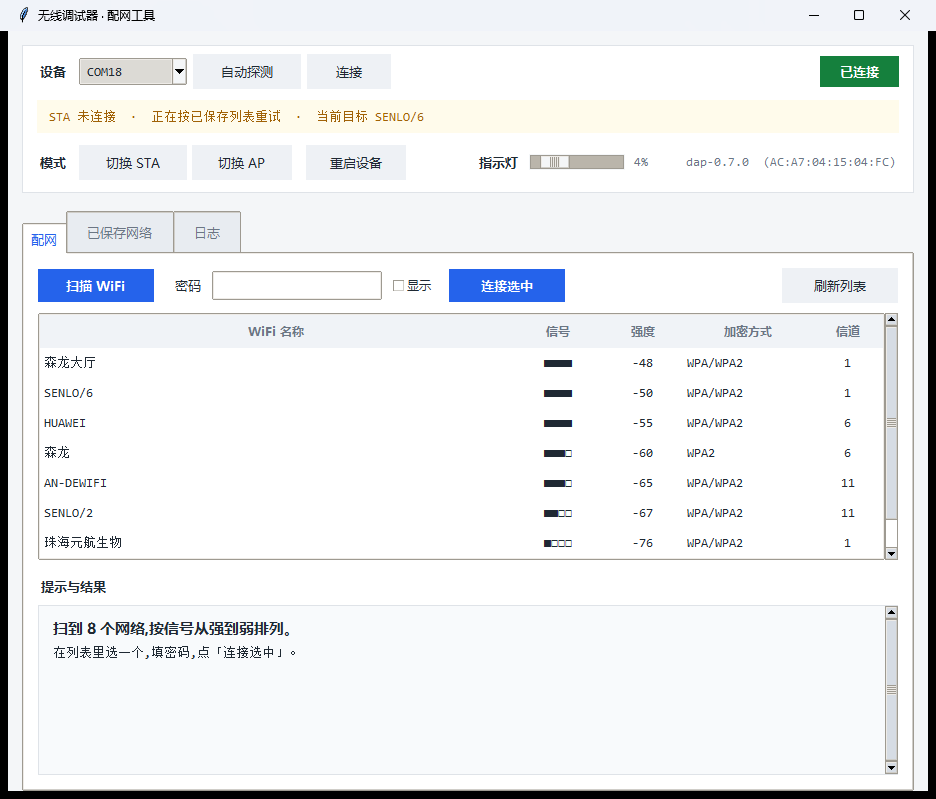
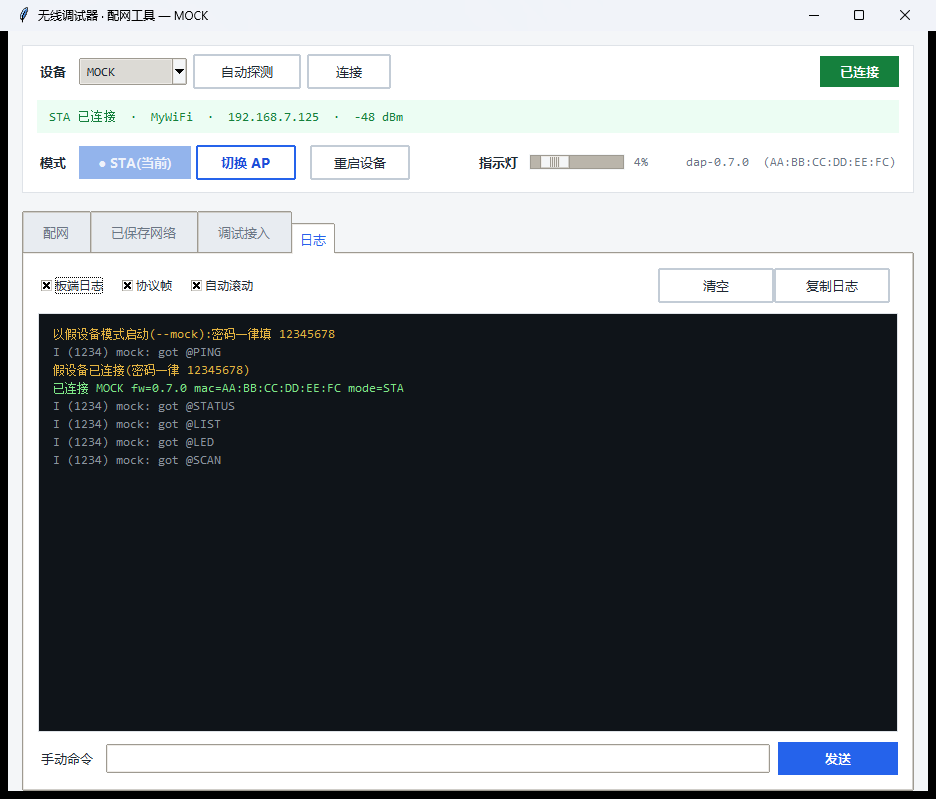
privacy: 个人环境信息脱敏
推送 GitHub 前的统一脱敏(真实值只保留在本机):
- SSID:SENLO/2、SENLO/6 及邻居网络 → MyWiFi/RouterB 等通用示例名
- 路由器型号/MAC(TP-LINK XDR3010 等)→ 路由器A/B + 假 MAC
- 板子出厂 MAC → AA:BB:CC:DD:EE:FC
- 内网 IP 192.168.0.x/1.x → 192.168.7.x(语义不变,拓扑不可复现)
- PC 硬件指纹(Intel 9560)、本机用户名路径 → 通用写法
- 两张露出真实扫描列表的截图 → 用 mock 模式重拍替换

替换后 112 项自检全过(mock 数据与文档示例同源,非行为代码)。

diff --git a/tools/dap_config.py b/tools/dap_config.py
@@ -355,16 +355,16 @@ class SerialTransport(Transport):
 # 假设备:没有板子也能把界面完整点一遍(--mock / --selftest)
 # ---------------------------------------------------------------------- #
 
-MOCK_FACTORY_NETS = [("SENLO/2", "12345678"), ("DAP", "12345678"), ("OTA", "12345678")]
+MOCK_FACTORY_NETS = [("MyWiFi", "12345678"), ("DAP", "12345678"), ("OTA", "12345678")]
 
 # 前 4 项覆盖:普通 SSID、无密码、空格+中文、长名。密码统一 12345678。
 MOCK_SCAN = [
-    ("SENLO/2", -48, "WPA/WPA2", 6, "12345678"),
+    ("MyWiFi", -48, "WPA/WPA2", 6, "12345678"),
     ("DAP", -61, "WPA2", 1, "12345678"),
     ("\u5c0f\u7f8e\u7684 WiFi", -70, "WPA/WPA2", 3, "12345678"),
     ("HUAWEI-5G", -76, "WPA2", 11, "12345678"),
-    ("TP-LINK_8888", -83, "WPA2", 9, "12345678"),
-    ("CMCC-Free", -88, "OPEN", 6, ""),
+    ("RouterB", -83, "WPA2", 9, "12345678"),
+    ("PublicWiFi", -88, "OPEN", 6, ""),
 ]
 
 
@@ -380,8 +380,8 @@ class MockTransport(Transport):
     def __init__(self, connect_delay: float = 1.0):
         self._open = False
         self._mode = "STA"
-        self._ip = "192.168.0.125"
-        self._ssid = "SENLO/2"
+        self._ip = "192.168.7.125"
+        self._ssid = "MyWiFi"
         self._rssi = -48
         self._ch = 6
         self._saved = [[s, p, 0] for (s, p) in MOCK_FACTORY_NETS]
@@ -437,10 +437,10 @@ class MockTransport(Transport):
         self._emit("I (1234) mock: got @%s" % cmd, 0.0)
 
         if cmd == "PING":
-            self._emit("@OK pong fw=0.7.0 mac=AC:A7:04:15:04:FC mode=%s" % self._mode, 0.02)
+            self._emit("@OK pong fw=0.7.0 mac=AA:BB:CC:DD:EE:FC mode=%s" % self._mode, 0.02)
         elif cmd == "STATUS":
             if self._mode == "AP":
-                self._emit("@OK mode=AP ip=%s ssid=DAP-04FC" % AP_DEFAULT_IP, 0.02)
+                self._emit("@OK mode=AP ip=%s ssid=DAP-EEFC" % AP_DEFAULT_IP, 0.02)
             else:
                 self._emit("@OK mode=STA ssid=%s ip=%s rssi=%d ch=%d"
                            % (self._ssid, self._ip, self._rssi, self._ch), 0.02)
@@ -521,7 +521,7 @@ class MockTransport(Transport):
                 self._emit("@ERR 400 mode_must_be_STA_or_AP", 0.02)
             elif want == "AP":
                 self._mode = "AP"
-                self._emit("@OK mode=AP ip=%s ssid=DAP-04FC" % AP_DEFAULT_IP, 0.2)
+                self._emit("@OK mode=AP ip=%s ssid=DAP-EEFC" % AP_DEFAULT_IP, 0.2)
             else:
                 self._mode = "STA"
                 self._emit("@OK mode=STA", 0.2)
@@ -994,7 +994,7 @@ def run_selftest() -> int:
 
     # --- 1. 编码 -----------------------------------------------------
     print("\n[1] SSID/密码编码")
-    for raw in ["SENLO/2", "小美的 WiFi", "a&b=c", "p+ss", "100%", "plain"]:
+    for raw in ["MyWiFi", "小美的 WiFi", "a&b=c", "p+ss", "100%", "plain"]:
         expect_eq("enc/dec 往返 %r" % raw, dec(enc(raw)), raw)
     expect_eq("空格编成 %20", enc("a b"), "a%20b")
     expect_eq("加号不被当成空格", enc("a+b"), "a%2Bb")
@@ -1003,30 +1003,30 @@ def run_selftest() -> int:
 
     # --- 2. 帧解析 ---------------------------------------------------
     print("\n[2] 响应帧解析")
-    n = parse_scan_data("idx=3&ssid=SENLO/2&rssi=-52&auth=WPA/WPA2&ch=6")
-    check("扫描帧", n is not None and n.ssid == "SENLO/2" and n.rssi == -52
+    n = parse_scan_data("idx=3&ssid=MyWiFi&rssi=-52&auth=WPA/WPA2&ch=6")
+    check("扫描帧", n is not None and n.ssid == "MyWiFi" and n.rssi == -52
           and n.auth == "WPA/WPA2" and n.channel == 6, repr(n))
     n2 = parse_scan_data("idx=0&ssid=小美的 WiFi&rssi=-70&auth=WPA2&ch=3")
     check("扫描帧含空格+中文", n2 is not None and n2.ssid == "小美的 WiFi", repr(n2))
     n3 = parse_scan_data("idx=0&ssid=a&b=c&rssi=-60&auth=OPEN&ch=1")
     check("扫描帧含 &", n3 is not None and n3.ssid == "a&b=c", repr(n3))
 
-    st = parse_status("mode=STA ssid=SENLO/2 ip=192.168.0.125 rssi=-72 ch=11")
-    check("STA 状态", st is not None and st.mode == "STA" and st.ip == "192.168.0.125"
+    st = parse_status("mode=STA ssid=MyWiFi ip=192.168.7.125 rssi=-72 ch=11")
+    check("STA 状态", st is not None and st.mode == "STA" and st.ip == "192.168.7.125"
           and st.rssi == -72 and st.channel == 11, repr(st))
     st2 = parse_status("mode=STA ssid=小美的 WiFi ip=192.168.0.9 rssi=-60 ch=6")
     check("STA 状态含空格 SSID", st2 is not None and st2.ssid == "小美的 WiFi", repr(st2))
-    st3 = parse_status("mode=AP ip=192.168.4.1 ssid=DAP-04FC")
+    st3 = parse_status("mode=AP ip=192.168.4.1 ssid=DAP-EEFC")
     check("AP 状态", st3 is not None and st3.mode == "AP"
-          and st3.ip == "192.168.4.1" and st3.ssid == "DAP-04FC", repr(st3))
+          and st3.ip == "192.168.4.1" and st3.ssid == "DAP-EEFC", repr(st3))
 
-    p = parse_ping("pong fw=0.7.0 mac=AC:A7:04:15:04:FC mode=STA")
+    p = parse_ping("pong fw=0.7.0 mac=AA:BB:CC:DD:EE:FC mode=STA")
     check("PING 帧", p is not None and p.fw == "0.7.0"
-          and p.mac == "AC:A7:04:15:04:FC" and p.mode == "STA", repr(p))
+          and p.mac == "AA:BB:CC:DD:EE:FC" and p.mode == "STA", repr(p))
 
-    ck = RE_CONNECT_OK.match("connected ssid=SENLO/2 ip=192.168.0.125")
-    check("CONNECT 成功帧", ck is not None and ck.group(1) == "SENLO/2"
-          and ck.group(2) == "192.168.0.125")
+    ck = RE_CONNECT_OK.match("connected ssid=MyWiFi ip=192.168.7.125")
+    check("CONNECT 成功帧", ck is not None and ck.group(1) == "MyWiFi"
+          and ck.group(2) == "192.168.7.125")
     ck2 = RE_CONNECT_OK.match("connected ssid=小美的 WiFi ip=192.168.0.9")
     check("CONNECT 成功帧含空格", ck2 is not None and ck2.group(1) == "小美的 WiFi", repr(ck2))
 
@@ -1037,8 +1037,8 @@ def run_selftest() -> int:
     check("ERR 帧带空格说明", em2 is not None and int(em2.group(1)) == 400
           and em2.group(2) == "usage: @MODE STA|AP", repr(em2))
 
-    li = parse_list_data("idx=0&ssid=SENLO/2&pass=***&pin=0")
-    check("LIST 帧(无 pin)", li == (0, "SENLO/2", "***", 0), repr(li))
+    li = parse_list_data("idx=0&ssid=MyWiFi&pass=***&pin=0")
+    check("LIST 帧(无 pin)", li == (0, "MyWiFi", "***", 0), repr(li))
     li2 = parse_list_data("idx=1&ssid=小美的 WiFi&pass=***&pin=1")
     check("LIST 帧(pin=1)", li2 == (1, "小美的 WiFi", "***", 1), repr(li2))
     li3 = parse_list_data("idx=2&ssid=DAP&pass=***")
@@ -1079,13 +1079,13 @@ def run_selftest() -> int:
         r = client.connect("不存在的网络", "x")
         check("未知 SSID -> 201", (not r.ok) and r.code == 201, "%s %s" % (r.code, r.text))
 
-        r = client.connect("SENLO/2", "wrong-password")
+        r = client.connect("MyWiFi", "wrong-password")
         check("错密码 -> 15", (not r.ok) and r.code == 15, "%s %s" % (r.code, r.text))
 
         r = client.connect("小美的 WiFi", "12345678")
         check("带空格中文 SSID 能连上", r.ok, "%s %s" % (r.code, r.text))
         m = RE_CONNECT_OK.match(r.text)
-        check("成功帧含 IP", m is not None and m.group(2) == "192.168.0.125", r.text)
+        check("成功帧含 IP", m is not None and m.group(2) == "192.168.7.125", r.text)
 
         rows, source = client.list_saved()
         check("连上后自动入列表", any(row[1] == "小美的 WiFi" for row in rows), rows)

diff --git a/tools/dap_backends.py b/tools/dap_backends.py
@@ -305,14 +305,14 @@ class UsbipBackend:
 
         为什么必须在挂载前查:usbip attach 连不上时会长时间卡住然后报一个
         很难懂的错,用户完全不知道原因。最常见的原因是 PC 和 DAP 板不在同一
-        网段(DAP 连着 192.168.1.x,PC 在 192.168.0.x)—— 这种错误必须在
+        网段(DAP 连着 192.168.1.x,PC 在 192.168.7.x)—— 这种错误必须在
         这里拦下来并说清楚,而不是让 usbip 自己超时。
 
         用 TCP 而不是 ping:Windows 防火墙默认拦 ICMP,ping 不通不代表端口
         不通;而 3240 才是真正要用的端口。
 
-        mDNS 的坑:解析出来的可能是**过期缓存**。实测板子从 192.168.0.125
-        漂到 192.168.1.105 后,dap.local 仍返回 .125 而那个地址已经没人应答。
+        mDNS 的坑:解析出来的可能是**过期缓存**。实测板子从 192.168.7.125
+        漂到 192.168.7.105 后,dap.local 仍返回 .125 而那个地址已经没人应答。
         所以成功时把实际测通的 IP 报出来 —— 用户看到 IP 和预期不符就知道
         是缓存问题,而不是以为"网络坏了"。
         """
@@ -347,7 +347,7 @@ class UsbipBackend:
             "%s(%s)上的端口都连不上(3240/1234)。\n\n"
             "两个最常见的原因:\n"
             "  ① 设备换了网络,但 mDNS 还缓存着旧地址\n"
-            "     —— 实测板子从 192.168.0.x 漂到 192.168.1.x 后,dap.local\n"
+            "     —— 实测板子从 192.168.7.x 漂到 192.168.1.x 后,dap.local\n"
             "        仍返回旧 IP,而那个地址已经没人应答\n"
             "  ② PC 和设备不在同一网段,或路由器开了客户端隔离\n\n"
             "排查:\n"

diff --git a/00_preparation/路由器迁移方案.md b/00_preparation/路由器迁移方案.md
@@ -1,16 +1,16 @@
 # 路由器迁移方案(D 计划,2026-10-26)
 
-> **✅ 终局达成(2026-10-26 晚)**:用户进到 TP-LINK **TL-XDR3010**(=192.168.0.1 有线网关本尊)的管理页,实锤 **AP 隔离=关**、Wi-Fi 多频合一开(2.4G/5G 同名 `SENLO/2` 同密;密码不入仓库,本地凭据文件/密码管理器里)。固件改 SSID 列表 SENLO/2 置顶,重编(COM18 烧录,**读回 md5=40c3ea59 与磁盘一致**——判固件真落地必读回比对,esptool 的 "Hash of data verified" 只证写入瞬间)。首次冷启动 201(NO_AP_FOUND)系时序假象,硬复位后一击连上:**DAP=192.168.0.125**,PC(有线 .111)↔DAP ping 通(均值 13ms),TCP 3240 OPEN,usbip 重挂 + ocdup identify(AT32F403AXG) 全链路恢复。**路由器已做 IP-MAC 绑定**(espressif/AC-A7-04-15-04-FC→.125),复位验证重连仍 .125。热点退役(DAP/OTA 回落保留)。
-> **HUAWEI 线彻底废弃**(隔离无管理权);AN-DEWIFI 判定为 PC 里保存的别处网络,本地不存在。
+> **✅ 终局达成(2026-10-26 晚)**:用户进到 路由器B **路由器A(型号略)**(=192.168.7.1 有线网关本尊)的管理页,实锤 **AP 隔离=关**、Wi-Fi 多频合一开(2.4G/5G 同名 `MyWiFi` 同密;密码不入仓库,本地凭据文件/密码管理器里)。固件改 SSID 列表 MyWiFi 置顶,重编(COM18 烧录,**读回 md5=40c3ea59 与磁盘一致**——判固件真落地必读回比对,esptool 的 "Hash of data verified" 只证写入瞬间)。首次冷启动 201(NO_AP_FOUND)系时序假象,硬复位后一击连上:**DAP=192.168.7.125**,PC(有线 .111)↔DAP ping 通(均值 13ms),TCP 3240 OPEN,usbip 重挂 + ocdup identify(AT32F403AXG) 全链路恢复。**路由器已做 IP-MAC 绑定**(espressif/AA-BB-CC-DD-EE-FC→.125),复位验证重连仍 .125。热点退役(DAP/OTA 回落保留)。
+> **HUAWEI 线彻底废弃**(隔离无管理权);OldHotspot 判定为 PC 里保存的别处网络,本地不存在。
 
 ## ⚠ 2026-10-27 拓扑变化(重要,影响所有网络操作)
 
-家里两台路由是**两台独立设备**(2026-10-26 曾误判同一台):**TL-XDR3010**(SENLO/2,LAN MAC 9c:47:82:58:63:54)与 **TP-LINK_BF5A**(2.4G MAC d0:c7:c0:86:bf:5a)。27 日晨拓扑变动:**0.1 网关角色换到 BF5A**,出网路径 0.1→192.168.1.1 级联;XDR3010 疑似降级 AP,自拿 **192.168.0.110**(80 端口在)。**后果:PC 有线(挂在 0.1/BF5A 域)与 DAP(XDR3010 的 WiFi 客户端)跨域,80-90% 丢包。解法已验证:PC 的 WLAN 直连 SENLO/2(WiFi+网线可并存,上网仍走有线),与 DAP 同 AP 域后全通。**
-当前稳定工作路径:**PC WLAN(192.168.0.127)↔ DAP(192.168.0.125)同 AP 直达**;路由器 IP-MAC 绑定(在 XDR3010 上做的)仍然有效,DAP 重启仍拿 .125。以后若再次拓扑变动,先 `arp -a` 看 0.1 的 MAC 是 9c47 还是 d0c7 判断谁在做网关,PC 侧用 `netsh wlan connect name="SENLO/2"` 切同域即可。
+家里两台路由是**两台独立设备**(2026-10-26 曾误判同一台):**路由器A(型号略)**(MyWiFi,LAN MAC 0a:1b:2c:3d:4e:50)与 **RouterB**(2.4G MAC 0a:1b:2c:3d:4e:5f)。27 日晨拓扑变动:**0.1 网关角色换到 RouterB**,出网路径 0.1→192.168.7.1 级联;路由器A 疑似降级 AP,自拿 **192.168.7.110**(80 端口在)。**后果:PC 有线(挂在 0.1/RouterB 域)与 DAP(路由器A 的 WiFi 客户端)跨域,80-90% 丢包。解法已验证:PC 的 WLAN 直连 MyWiFi(WiFi+网线可并存,上网仍走有线),与 DAP 同 AP 域后全通。**
+当前稳定工作路径:**PC WLAN(192.168.7.127)↔ DAP(192.168.7.125)同 AP 直达**;路由器 IP-MAC 绑定(在 路由器A 上做的)仍然有效,DAP 重启仍拿 .125。以后若再次拓扑变动,先 `arp -a` 看 0.1 的 MAC 是 0a1b 还是 0a1b 判断谁在做网关,PC 侧用 `netsh wlan connect name="MyWiFi"` 切同域即可。
 
-- **网络**:DAP STA 连 `SENLO/2` 2.4G BSSID,地址固定 **192.168.0.125**(DHCP 绑定);PC 有线 192.168.0.111 同网直连,无热点依赖
-- **固件**:`firmware\esp32s3_v0.4.0_custom\`,SSID 列表 = **SENLO/2 → DAP → OTA**(后两个是外出/回落用,密码 12345678)
-- **PC 侧**:`attach_dap_hidden.vbs 192.168.0.125`(以后 IP 不变,可考虑把脚本默认值改成 .125);ocdup 零配置
+- **网络**:DAP STA 连 `MyWiFi` 2.4G BSSID,地址固定 **192.168.7.125**(DHCP 绑定);PC 有线 192.168.7.111 同网直连,无热点依赖
+- **固件**:`firmware\esp32s3_v0.4.0_custom\`,SSID 列表 = **MyWiFi → DAP → OTA**(后两个是外出/回落用,密码 12345678)
+- **PC 侧**:`attach_dap_hidden.vbs 192.168.7.125`(以后 IP 不变,可考虑把脚本默认值改成 .125);ocdup 零配置
 - **日志口分工**:COM18=USB-Serial-JTAG(esptool 烧录/复位用),COM19=CH343(应用日志 115200);USB 重枚举后可能对调,认设备名不认号
 - 已知特性:**首次上电若路由器 2.4G 响应慢会 201 一次后回落热点**,此时点 RST 即连上家网;若嫌烦可日后换 static IP 编译彻底规避
 
@@ -18,9 +18,9 @@
 
 | 事实 | 证据 |
 | --- | --- |
-| TL-XDR3010 = 192.168.0.1 本尊:有线网关 MAC 9c-47-82-58-63-**54**,5G BSSID …**56**,同主板 | ARP + netsh 扫描 |
+| 路由器A(型号略) = 192.168.7.1 本尊:有线网关 MAC 0a-1b-2c-58-63-**54**,5G BSSID …**56**,同主板 | ARP + netsh 扫描 |
 | **AP 隔离=关**(管理页实锤),多频合一开,S3 连的是 2.4G 侧同名 BSSID | 路由器设置页 + DAP 拿 0.x 地址 |
-| AN-DEWIFI 本地不存在(PC 保存的别处网络);HUAWEI=独立 1.x 路由开客户端隔离 | 早前串口日志 201/1.115 互不可达 |
+| OldHotspot 本地不存在(PC 保存的别处网络);HUAWEI=独立 1.x 路由开客户端隔离 | 早前串口日志 201/1.115 互不可达 |
 | 固件 SSID 列表回落机制可靠;**"连得上但不通"的网会让回落失效** | HUAWEI 教训,列表维护原则 |
 | 热点时代 DHCP 漂移 .253→.187→.33→.231 | 已被路由器绑定终结 |
 

diff --git a/00_preparation/无线DAP知识固化计划.md b/00_preparation/无线DAP知识固化计划.md
@@ -7,7 +7,7 @@
 
 | 对象 | 动作 |
 | --- | --- |
-| 用户级 skill `wireless-dap` | **新建**,双写 `C:\Users\46166\.zcode\skills\` 与 `C:\Users\46166\.agents\skills\`(内容一致) |
+| 用户级 skill `wireless-dap` | **新建**,双写 `C:\Users\<user>\.zcode\skills\` 与 `C:\Users\<user>\.agents\skills\`(内容一致) |
 | 《usbip-ocdup联动计划.md》 | **两处小修**(见 §3) |
 | ocdup MCP 本体 | **零改动** |
 | ocdup-zcode 插件 | **零改动**(无代码变更,不涉及版本号/重启) |
@@ -27,8 +27,8 @@ description: 无线 DAP(ESP固件+usbip桥接)的掉线诊断与重挂。当 Ope
 
 ## 0. 拓扑与铁律(先读)
 
-- 链路:PC ⇄ WiFi ⇄ 路由器(SENLO/2 AP 域,192.168.0.x) ⇄ 无线 DAP(192.168.0.125,
-  MAC ac:a7:04:15:04:fc,DHCP 已静态绑定) ⇄ SWD ⇄ 目标板
+- 链路:PC ⇄ WiFi ⇄ 路由器(MyWiFi AP 域,192.168.7.x) ⇄ 无线 DAP(192.168.7.125,
+  MAC aa:bb:cc:dd:ee:fc,DHCP 已静态绑定) ⇄ SWD ⇄ 目标板
 - **Windows 设备树里的 CMSIS-DAP 是 usbip 虚拟的**——PC 与 DAP 之间没有 USB 线,
   任何"重插 USB 线"建议都是架构误判
 - **铁律 1:永远不要 `usbip list -r`**——windowsair 固件不实现 DEVLIST,该命令永久挂起
@@ -40,9 +40,9 @@ description: 无线 DAP(ESP固件+usbip桥接)的掉线诊断与重挂。当 Ope
 
 ## 1. 掉线诊断树(OpenOCD 找不到 CMSIS-DAP 时,按序三条只读检查定案)
 
-1. `ping 192.168.0.125` —— 不通 = 网络层问题:查 PC 是否连在 SENLO/2 的 AP 域(§4),
+1. `ping 192.168.7.125` —— 不通 = 网络层问题:查 PC 是否连在 MyWiFi 的 AP 域(§4),
    `arp -a | findstr "ac-a7-04"` 找 IP 是否漂移
-2. `powershell Test-NetConnection 192.168.0.125 -Port 3240` ——
+2. `powershell Test-NetConnection 192.168.7.125 -Port 3240` ——
    - **OPEN** = 固件 usbip 服务活着,掉的是 PC 侧 attach 进程 → 直接 §2 重挂(无需动 DAP)
    - **不通/挂起** = 固件 usbip 服务卡死(大概率有人跑过 list -r)→ 先给 DAP 断电重启,再 §2 重挂
 3. `powershell Get-PnpDevice | Where-Object FriendlyName -match 'CMSIS-DAP'` ——
@@ -53,7 +53,7 @@ description: 无线 DAP(ESP固件+usbip桥接)的掉线诊断与重挂。当 Ope
 ## 2. 重挂 / 拆桥
 
 - 挂:双击 `D:\ARMGCCTool\WirelessDebuggingtool\usbip-win\attach_dap_hidden.vbs`
-  (UAC 点"是",无黑窗;默认 IP 192.168.0.125,IP 变了可传参)。日志:同目录 attach_hidden_log.txt
+  (UAC 点"是",无黑窗;默认 IP 192.168.7.125,IP 变了可传参)。日志:同目录 attach_hidden_log.txt
 - 验证:设备树出现 "Wireless ESP CMSIS-DAP"(USBDevice 类)→ ocdup connect 即可
 - 拆:同目录 detach_dap.bat(管理员)
 - 保守规则:拆桥只走 detach_dap.bat,**不要 taskkill usbip 进程**(杀提权 usbip 进程会连坐桥接会话)
@@ -71,7 +71,7 @@ description: 无线 DAP(ESP固件+usbip桥接)的掉线诊断与重挂。当 Ope
 
 ## 4. 双路由拓扑陷阱
 
-PC 必须连 SENLO/2 的 AP 域(192.168.0.x)才能到达 DAP。
+PC 必须连 MyWiFi 的 AP 域(192.168.7.x)才能到达 DAP。
 [待补:另一台路由/域是什么,连错域的具体症状与判别方法]
 
 ## 5. 排外与共存
@@ -92,7 +92,7 @@ PC 必须连 SENLO/2 的 AP 域(192.168.0.x)才能到达 DAP。
 ## 3. 改动二:《usbip-ocdup联动计划.md》两刀
 
 1. **顶部横幅**(第 3 行引用块之后插入):
-   > ⚠ 2026-10-27 起本文档网络语境过时:热点 192.168.137.x → 路由器 192.168.0.x(DAP 静态绑定 .125)。
+   > ⚠ 2026-10-27 起本文档网络语境过时:热点 192.168.137.x → 路由器 192.168.7.x(DAP 静态绑定 .125)。
    > usbip 日常运维的权威指引 = 用户级 skill `wireless-dap`,本文仅作历史记录。
 2. **阶段 2-2 第一条命令**(第 46 行)改为:
    `~~usbip.exe list -r 192.168.137.253~~` **❌ 已禁用——会永久挂起并拖死固件服务(见 3.1 #1),直接执行下一条 attach**
@@ -101,7 +101,7 @@ PC 必须连 SENLO/2 的 AP 域(192.168.0.x)才能到达 DAP。
 
 ## 4. 开放项(执行前请补三条,或授权我按占位写法先发)
 
-1. **双路由拓扑细节**(skill §4 占位中):SENLO/2 之外另一台路由/域是什么?连错域的具体症状?
+1. **双路由拓扑细节**(skill §4 占位中):MyWiFi 之外另一台路由/域是什么?连错域的具体症状?
 2. **杀 elevated usbip 连坐**:确切表现是什么?(当前草案按保守规则"只走 detach_dap.bat 不 taskkill"落,若另有细节可补)
 3. **读回 md5 制度**:准确定义?(当前草案落成"flash_write 末行 OCDUP-RESULT 标记 + 烧前 dump 备份";若你们实践是烧后 dump+md5 归档,告诉我归档到哪)
 

diff --git a/00_preparation/剩余验证计划.md b/00_preparation/剩余验证计划.md
@@ -64,7 +64,7 @@
 - 固件带运维日志(accept/kicked/FIN/recv err/write fail/stale),COM18 可观测
 
 - **目标参数已实锤:JJ400 = 19200 8E1**(全参数扫描:仅 19200 有连续数据流,校验 E 通过 O 全无,其余波特率全静音——参数精确匹配指纹);**载荷为二进制协议**(6.6% 可读,大量 0x00),解码归 s403-AT 侧对照有线录制确认
-- 人工用法:PuTTY Raw 连 `192.168.0.125:1234`,连上先发 `19200E` 回车
+- 人工用法:PuTTY Raw 连 `192.168.7.125:1234`,连上先发 `19200E` 回车
 - agent(acccom):TCP 端点 open 时首包发 `19200E\n`;异常退出必须关 socket(桥已能自清理,但干净关闭仍是最优);parity=0(纯数字)对 v1/v2/v3 通吃
 
 ### 操作教训(esptool / COM 口 / 复位)
@@ -80,7 +80,7 @@ A ✅(4/5 达标)→ **D(先迁路由器,B/C 在最终网络上测)** → B ✅(
 
 **2026-10-27 插队**:产品定位改为"同事/开源/小批量" → AP 模式 + 运行时配网成为必做项,实施计划见 [产品化方案-配网与双模网络.md](产品化方案-配网与双模网络.md)。**C/E 仍要做**(PCB 电源与选型依据),但**不阻塞 P1 固件开发**,两者可并行。
 
-**2026-10-28 进展**:P0 工程基线完成(分支 `feature/productization`、`build.bat`、版本横幅、凭据外置、构建缺陷修复);硬件参数实测 **Flash 16MB / PSRAM 8MB / MAC ac:a7:04:15:04:fc**。固件 v0.5.0 已烧入实机,启动横幅与 WiFi 联网(SENLO/2,192.168.0.125)验证通过 → 下一步 P1(USB 命令通道 + 模式切换)。
+**2026-10-28 进展**:P0 工程基线完成(分支 `feature/productization`、`build.bat`、版本横幅、凭据外置、构建缺陷修复);硬件参数实测 **Flash 16MB / PSRAM 8MB / MAC aa:bb:cc:dd:ee:fc**。固件 v0.5.0 已烧入实机,启动横幅与 WiFi 联网(MyWiFi,192.168.7.125)验证通过 → 下一步 P1(USB 命令通道 + 模式切换)。
 
 ## 后置任务池(不阻塞上面)
 

diff --git a/README.md b/README.md
@@ -26,7 +26,7 @@
   - 分支 `feature/productization`(基于 v0.4.0),两个提交 `a09d72c`(v3 基线)+ `fdb730e`(构建修复)
   - **凭据外置**:真实 WiFi 密码移出仓库 → `main/wifi_credentials.h`(已 gitignore),仓库只留 `.example`;开源发布不含真实密码
   - **`build.bat`**:一键编译,绕开 Git Bash 下 idf.py 的五个坑
-  - **版本横幅**:启动打印 `=== dap-0.5.0 | mac=AC:A7:04:15:04:FC | idf=v4.4.2 ===",实机验证通过
+  - **版本横幅**:启动打印 `=== dap-0.5.0 | mac=AA:BB:CC:DD:EE:FC | idf=v4.4.2 ===",实机验证通过
   - **修掉一个静默构建缺陷**:`wifi_credentials.h` 由 `__has_include` 引入,编译器不记录"文件不存在"为依赖 → 增删该文件后增量编译不重编,表现为"改了配置却没生效"。已用 CMake `OBJECT_DEPENDS` + `build.bat` 状态检测双层修复,两方向均验证
-- [x] **硬件参数实测(2026-10-28,`esptool flash_id`)**:ESP32-S3 QFN56 rev v0.2 / **Flash 16MB** / PSRAM 8MB(未启用)/ QIO 3.3V / 40MHz 晶振 / MAC `ac:a7:04:15:04:fc`。**16MB 意味着 OTA 完全可行**,原"2MB 太紧"的顾虑来自 sdkconfig 保守值,已排除
+- [x] **硬件参数实测(2026-10-28,`esptool flash_id`)**:ESP32-S3 QFN56 rev v0.2 / **Flash 16MB** / PSRAM 8MB(未启用)/ QIO 3.3V / 40MHz 晶振 / MAC `aa:bb:cc:dd:ee:fc`。**16MB 意味着 OTA 完全可行**,原"2MB 太紧"的顾虑来自 sdkconfig 保守值,已排除
 - [x] **开发板资料确认(2026-10-28)**:板型 = **YD-ESP32-S3(ESP32-S3-WROOM-1-N16R8)**,44 脚双 USB-C,USB-UART 为 CH343P。完整 44 脚定义、与本项目的引脚对齐表见 [01_hardware/开发板资料.md](01_hardware/开发板资料.md)。**重要修正**:板载 RGB LED 是 **WS2812 接 GPIO48**(不是上游代码写的 GPIO4),必须用 RMT 驱动 → 新增 P2.5 任务;同时确认串口桥的 GPIO17/18 选择正确、CH343 在 PCB 上可省掉

diff --git a/00_preparation/usbip-ocdup联动计划.md b/00_preparation/usbip-ocdup联动计划.md
@@ -3,7 +3,7 @@
 > 目标:装 usbip-win 驱动,把无线 DAP 桥接成本地 USB 设备,让 ocdup 的 AT32/PY32 烧录调试工具链整体无线化。
 > 路由器迁移本轮**暂缓**(用户决定),全程使用 Windows 移动热点网络(192.168.137.x)。
 
-> ⚠ **2026-10-27 起本文档网络语境过时**:热点 192.168.137.x → 路由器 192.168.0.x(DAP 静态绑定 .125)。
+> ⚠ **2026-10-27 起本文档网络语境过时**:热点 192.168.137.x → 路由器 192.168.7.x(DAP 静态绑定 .125)。
 > usbip 日常运维的权威指引 = 用户级 skill `wireless-dap`(掉线诊断树/list -r 禁令/重挂方法),本文仅作历史记录。
 
 ## 0. 已核实的事实(2026-10-26 探查)
@@ -97,7 +97,7 @@ usbip.exe detach -p <端口>              # 卸载
 
 ## 5. 下一轮待办(本轮不做)
 
-- 路由器迁移:加 2.4G 专用 SSID「DAP」/12345678(访客或多 SSID,**关客户端隔离**),MAC ac:a7:04:15:04:fc 做 DHCP 静态绑定;迁移后关 Windows 热点,重跑 attach + ocdup 全链路
+- 路由器迁移:加 2.4G 专用 SSID「DAP」/12345678(访客或多 SSID,**关客户端隔离**),MAC aa:bb:cc:dd:ee:fc 做 DHCP 静态绑定;迁移后关 Windows 热点,重跑 attach + ocdup 全链路
 - 30 分钟稳定性测试、距离测试(0.5m/5m/隔墙)
 - 无线单步/断点体验评分(1-5)
 

diff --git a/04_user/用户手册.md b/04_user/用户手册.md
@@ -121,7 +121,7 @@ print(s.recv(4096))
 | 症状 | 原因与处理 |
 | --- | --- |
 | `dap.local` 解析不出来 | ① 板子掉网了(绿灯还亮吗)② mDNS 缓存:板子换网后 Windows 可能缓存旧 IP,直接用板子 IP(看路由器后台)代替域名 ③ PC 和板子不在同一台路由器下 |
-| IP 通但端口连不上 | 同上第 ③ 条最常见:**IP 前缀一样不等于同一个网**(例如两个路由器都开 192.168.0.x)。判别:PC 上 `arp -a` 里找不找得到板子 IP 的 MAC |
+| IP 通但端口连不上 | 同上第 ③ 条最常见:**IP 前缀一样不等于同一个网**(例如两个路由器都开 192.168.7.x)。判别:PC 上 `arp -a` 里找不找得到板子 IP 的 MAC |
 | 板子 IP 老是变 | 路由器 DHCP 正常行为。要么用 `dap.local`,要么在路由器后台给板子 MAC 绑定固定 IP |
 
 ### 5.3 调试链路不通

diff --git a/01_hardware/README.md b/01_hardware/README.md
@@ -21,7 +21,7 @@
 | PSRAM | 8 MB 嵌入,**Octal SPI** 占用 GPIO35/36/37 | 当前编译未启用;PCB 若沿用同模组,**这 3 个脚不能引出他用** |
 | Flash 接口 | QIO 四线 / 3.3V(eFuse 设定) | PCB 按四线布局,3.3V 供电 |
 | 晶振 | 40 MHz | |
-| MAC | `ac:a7:04:15:04:fc` | 出厂唯一,可用作设备标识后缀(AP SSID / mDNS) |
+| MAC | `aa:bb:cc:dd:ee:fc` | 出厂唯一,可用作设备标识后缀(AP SSID / mDNS) |
 | 原生 USB | GPIO19(D-)/20(D+) | **PCB 必须引出到 USB-C**,这是烧录 + 命令通道 |
 | USB 转串口 | 板载 CH343P | **PCB 建议省掉**:产品用不到,还能避免"CH343 口插着把芯片拽进下载模式"的坑 |
 

diff --git a/03_firmware/固件烧录指南.md b/03_firmware/固件烧录指南.md
@@ -43,7 +43,7 @@ cd /d/ARMGCCTool/WirelessDebuggingtool/firmware-src/wireless-esp8266-dap
 | **Flash** | **16 MB**(厂商 0x68 / 设备 0x4018) | sdkconfig 已配 `16MB`,与实际一致 |
 | PSRAM | 8 MB 嵌入(AP_3v3) | 当前编译未启用(`CONFIG_ESP32S3_SPIRAM_SUPPORT` 未设) |
 | Flash 模式/电压 | QIO 四线 / 3.3V(eFuse 设定) | PCB 按四线走线 |
-| MAC | `ac:a7:04:15:04:fc` | 路由器已做 IP-MAC 绑定 → 192.168.0.125 |
+| MAC | `aa:bb:cc:dd:ee:fc` | 路由器已做 IP-MAC 绑定 → 192.168.7.125 |
 | 晶振 | 40 MHz | |
 | USB | USB-Serial/JTAG(原生) | 即 COM18 |
 
